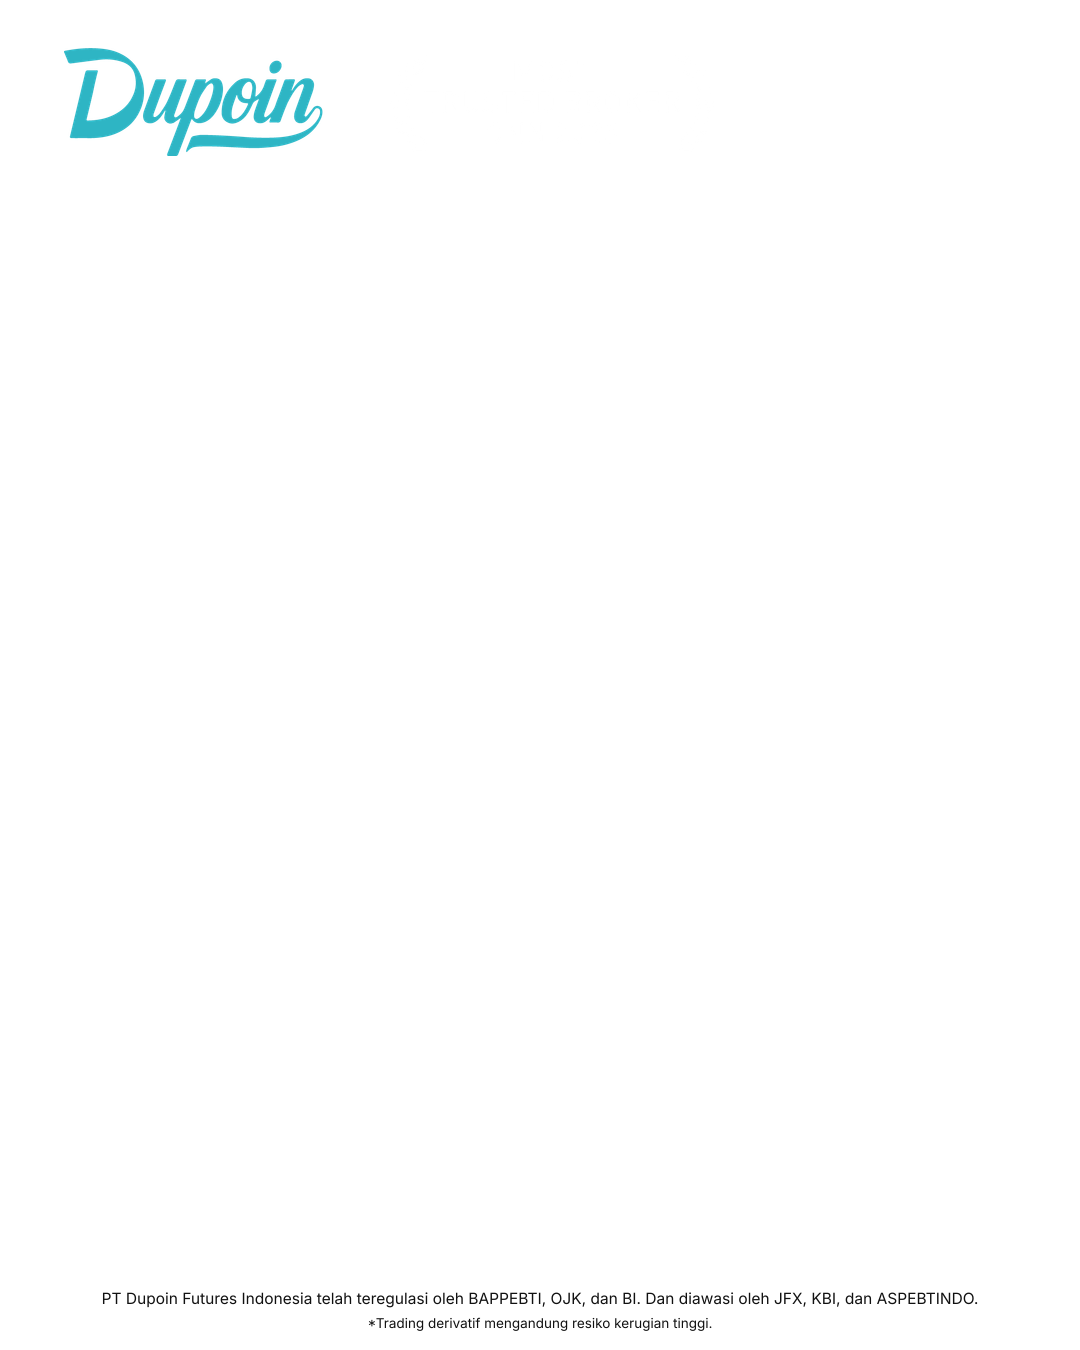
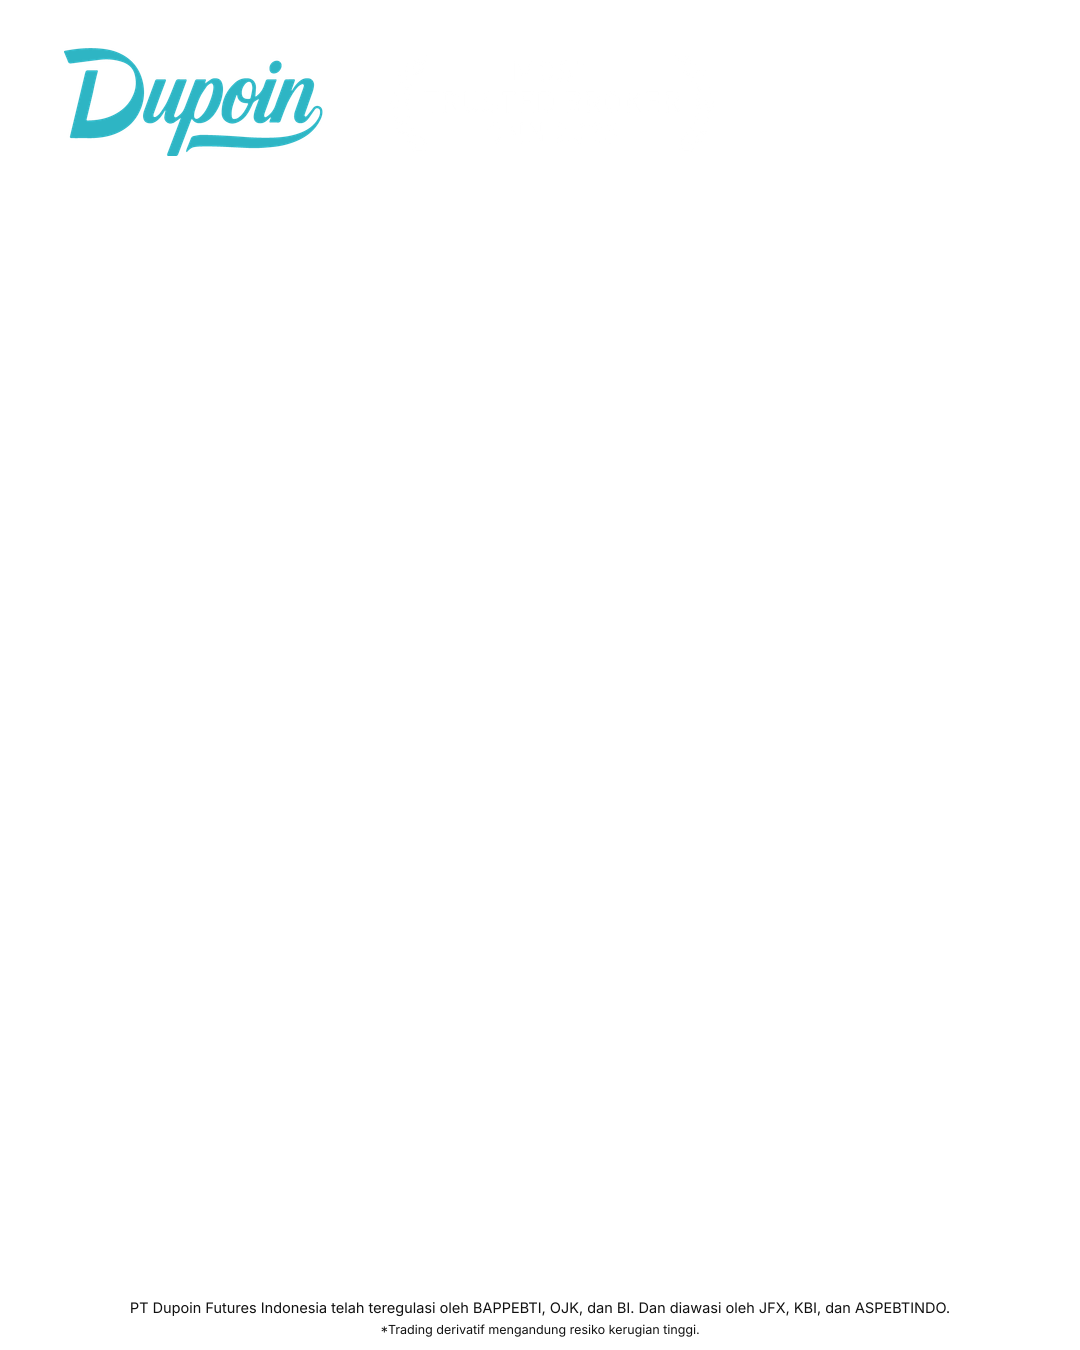
Lock the Dupoin feed shell into Social Post prompts and chrome.
Navy field, cyan key words, a filled Dupoin Blue pill, and a thinner white footer now follow the public grid, while carousel briefs can still use the swipe label in that same pill.

Changed region(s): [[0.1222, 0.9333, 0.8861, 0.9956]]

diff --git a/src/lib/dupoin-image-prompt.ts b/src/lib/dupoin-image-prompt.ts
@@ -23,6 +23,18 @@ export const DUPOIN_BLUE_RGB = '46,181,196';
 export const DUPOIN_LOGO_REQUIRED_LINE =
   'Draw no logo, no wordmark, no CNN badge, no laurel, no regulatory footer, and no "Dupoin" lettering'
 
+/**
+ * Style lock baked onto every Social Post image prompt.
+ * Wording is stable so re-applying the lock does not stack copies.
+ * Carousel/story posts use Bayu's swipe label; other briefs keep their own CTA inside the same filled pill.
+ */
+export const DUPOIN_IG_STYLE_LOCK =
+  `Dupoin Instagram shell: dark navy or black field with atmospheric glow in Dupoin Blue ${DUPOIN_BLUE_HEX}. `
+  + 'Large bold sans headlines, with key promo words in Dupoin Blue and supporting copy in white; alignment may follow the scene. '
+  + 'CTA is one filled Dupoin Blue pill with white lettering, placed just above the footer band. '
+  + 'When the brief is a carousel or story, the pill reads "Swipe left →"; otherwise use the brief\'s own short CTA inside that same filled pill. '
+  + 'Subject may be a person, a physical award, or a laptop with charts.'
+
 /** @deprecated Use DUPOIN_LOGO_REQUIRED_LINE — image prompts must include the official mark. */
 export const DUPOIN_LOGO_IN_PROMPT_LINE = DUPOIN_LOGO_REQUIRED_LINE;
 
@@ -49,37 +61,40 @@ DILARANG KERAS — bikin desain terlihat murah dan tidak menyatu:
 - Kalau teks kurang terbaca, JAWABANNYA adalah mengatur ulang cahaya dan komposisi adegan — bukan menambal dengan lapisan
 
 WARNA:
-- Dupoin Blue ${DUPOIN_BLUE_HEX} hadir sebagai cahaya nyata di dalam adegan: pantulan layar, rim light di tepi subjek, garis UI chart, aksen tombol CTA
-- Sisanya biarkan warna alami adegan — kulit, kayu, logam, kaca, kain
-- Satu warna dominan, satu aksen. Jangan lebih
+- Field dominan navy atau hitam. Dupoin Blue ${DUPOIN_BLUE_HEX} hadir sebagai cahaya nyata di dalam adegan: glow atmosfer, spotlight, rim light, pantulan layar, garis chart
+- Kata promo kunci di headline memakai Dupoin Blue yang sama. Copy pendukung putih
+- Pill CTA terisi Dupoin Blue dengan huruf putih. Bukan outline putih
+- Satu warna dominan (navy/hitam), satu aksen. Jangan lebih
 
 CAHAYA:
 - Satu arah cahaya utama yang jelas + fill lembut
-- Default feed Instagram: spotlight cyan dari atas, atau rim light Dupoin Blue di tepi subjek. Sumber lain (layar, lampu studio) boleh selama adegan tetap gelap dan moody
+- Default feed Instagram: spotlight atau glow cyan di atas field navy/hitam, atau rim light Dupoin Blue di tepi subjek, award, atau laptop
 - Bayangan lembut, highlight terkendali. Hindari pencahayaan datar dan kantor terang generik
 
 COPY DI GAMBAR:
 - Headline ≤6 kata, subheadline ≤10, CTA ≤4 — tulis persis dalam tanda kutip
-- Headline utama: sans tebal berwarna Dupoin Blue ${DUPOIN_BLUE_HEX}. Baris kedua: sans putih
-- CTA adalah pill outline putih, pendek, duduk tepat di atas pita footer
+- Headline besar, sans tebal. Kata promo kunci berwarna Dupoin Blue ${DUPOIN_BLUE_HEX}; copy pendukung putih. Alignment boleh kiri atau di tengah-bawah, mengikuti adegan
+- CTA adalah satu pill terisi Dupoin Blue, huruf putih, pendek, duduk tepat di atas pita footer
+- Kalau brief-nya carousel atau story, teks pill "Swipe left →". Selain itu pakai CTA dari brief di dalam pill yang sama
 - Maksimal 2 jenis huruf: display tebal + sans bersih
-- Tempatkan pada area tengah yang secara alami gelap: dinding, langit, area out-of-focus
+- Tempatkan pada area tengah yang secara alami gelap
 - Semua teks di zona tengah, minimal 80px dari tepi kiri dan kanan, di luar pita header dan footer
 
 SUBJEK — konkret, bukan abstrak:
-- Trader Indonesia usia 25-45 dengan ekspresi dan postur spesifik
-- Detail nyata: tekstur kemeja, cangkir kopi, layar chart, tepi meja kayu, tangan di mouse
+- Pilih yang paling konkret untuk brief: orang, trofi atau award fisik, atau laptop dengan chart
+- Kalau orang: Trader Indonesia usia 25-45 dengan ekspresi dan postur spesifik
+- Detail nyata: tekstur kemeja, layar chart, tepi laptop, logam award, tangan di mouse
 - JANGAN tulis "suasana profesional" atau "nuansa modern" — itu tidak bisa digambar
 
 CHROME — JANGAN DIGAMBAR:
-- Wordmark Dupoin, badge CNN 2025, dan footer regulasi putih ditempel otomatis dari aset setelah gambar jadi
+- Wordmark Dupoin di kiri atas, badge CNN 2025 di sampingnya, dan footer regulasi putih tipis ditempel otomatis dari aset setelah gambar jadi
 - Jangan gambar logo, wordmark, monogram, laurel, badge, atau footer regulasi; jangan tulis kata "Dupoin" di dalam art
-- Pita atas: kosong dari teks, wajah, dan logo. Background dan tekstur boleh menyambung di belakang lockup
-- Pita bawah: kosong. CTA pill duduk tepat di atasnya, bukan di dalamnya
-- Gaya feed Instagram Dupoin: background gelap/moody, Dupoin Blue sebagai spotlight atau rim light, bukan kantor terang generik
+- Pita atas: kosong dari teks, wajah, dan logo. Background navy/hitam dan glow boleh menyambung di belakang lockup
+- Pita bawah: kosong. Pill CTA duduk tepat di atasnya, bukan di dalamnya
+- Chrome ini menempel di setiap rasio. Yang berubah hanya subjek, alignment headline, imbangan warna kata, teks CTA, dan imagery
 
 FORMAT:
-- Kunci ukuran/rasio dari brief. Default social still 1080x1350 potret atau 1080x1080 persegi bila tidak disebut
+- Kunci ukuran/rasio dari brief. Feed publik sering 1080x1080 persegi; template chrome Bayu 1080x1350 potret. Jangan mengganti rasio yang sudah dikunci
 
 URUTAN MENULIS PROMPT:
 1. Format + jenis creative
@@ -93,11 +108,11 @@ URUTAN MENULIS PROMPT:
 
 CONTOH — tiru pendekatannya, jangan salin isinya:
 "Editorial photograph for an Indonesian financial brand, 1080x1350 portrait, Dupoin Instagram still.
-A trader in his early thirties sits in a dim studio, turned three-quarters toward camera, one hand resting on a phone that shows a trading chart. The wall behind him is a dark textured grid and falls gently out of focus. A single cyan spotlight drops from above, catching the rim of his shoulder and the edge of the phone in Dupoin Blue ${DUPOIN_BLUE_HEX}. The rest of the room stays deep and quiet.
-Headline 'JAGA MODALMU' is set in heavy Dupoin Blue sans in the lower middle, where the background is already dark.
-Subheadline 'Risiko duluan, baru entry' sits directly beneath in white.
-A white outlined pill reads 'Swipe left →' just above the empty bottom band.
-The top band is only the continuing dark wall — no logo, no badge, no type. The bottom band is empty background.
+A trader in his early thirties sits against a dark navy field, turned three-quarters toward camera, one hand resting on a laptop that shows a trading chart. The space behind him falls gently out of focus. A cyan atmospheric glow drops from above, catching the rim of his shoulder and the edge of the laptop in Dupoin Blue ${DUPOIN_BLUE_HEX}. The rest of the room stays black and quiet.
+Headline 'JAGA MODALMU' is set in heavy Dupoin Blue sans, with the supporting line 'Rencana dulu' in white, on the dark field where the surface is already quiet.
+Subheadline 'Baru kemudian entry' sits beneath in white.
+A filled Dupoin Blue pill with white lettering reads 'Pelajari' just above the empty bottom band. A carousel or story uses that same pill with the words 'Swipe left →'.
+The top band is only the continuing navy wall — no logo, no badge, no type. The bottom band is empty background.
 Shot on 50mm at f/2, shallow depth of field, moody contrast, fine grain, 8K.
 No overlay, no panel or box behind the text, no gradient layer, no opacity effects, no logo or wordmark, no CNN badge, no laurel, no regulatory footer, no 'Dupoin' lettering in the art, no hashtags, no stock-photo look."
 
@@ -113,6 +128,17 @@ export interface SocialPostImagePromptInput {
 }
 
 const CHROME_LOCK_RE = /\n\nLeave the top \d+% of the frame empty of type, faces, and logos \(background and texture may continue\) for the composited Dupoin header lockup, and the bottom \d+% empty for the composited white regulatory footer\. Draw no logo, no wordmark, no CNN badge, no laurel, no regulatory footer, and no "Dupoin" lettering anywhere in the image\. Primary accent Dupoin Blue #2EB5C4 as real light inside the scene\./g;
+
+function escapeRegExp(value: string): string {
+  return value.replace(/[.*+?^${}()|[\]\\]/g, '\\$&');
+}
+
+const STYLE_LOCK_RE = new RegExp(`\\n\\n${escapeRegExp(DUPOIN_IG_STYLE_LOCK)}`, 'g');
+
+/** Drop a previously baked Instagram style lock so re-applying it cannot stack. */
+export function stripDupoinStyleLock(prompt: string): string {
+  return String(prompt || '').replace(STYLE_LOCK_RE, '');
+}
 
 /** Drop a previously baked chrome reservation so a new aspect ratio can replace the percentages. */
 export function stripDupoinChromeLock(prompt: string): string {
@@ -200,11 +226,16 @@ export function applyDupoinImagePromptLocks(
   prompt: string,
   aspectRatio: ImageAspectRatio = DEFAULT_IMAGE_ASPECT_RATIO,
 ): string {
-  const cleaned = stripDupoinChromeLock(stripImageAspectPrompt(stripFlatOverlayLanguage(prompt))).trim();
+  const cleaned = stripDupoinStyleLock(
+    stripDupoinChromeLock(stripImageAspectPrompt(stripFlatOverlayLanguage(prompt))),
+  ).trim();
   const guarded = cleaned.includes(SCENE_INTEGRITY_NEGATIVES)
     ? cleaned
     : `${cleaned}\n\n${SCENE_INTEGRITY_NEGATIVES}`.trim();
-  return withImageAspectPrompt(ensureOfficialDupoinLogo(guarded, aspectRatio), aspectRatio);
+  const withStyle = guarded.includes(DUPOIN_IG_STYLE_LOCK)
+    ? guarded
+    : `${guarded}\n\n${DUPOIN_IG_STYLE_LOCK}`.trim();
+  return withImageAspectPrompt(ensureOfficialDupoinLogo(withStyle, aspectRatio), aspectRatio);
 }
 
 /** User message that drives Social Post image-prompt generation from a selected caption. */
@@ -222,11 +253,11 @@ Selected caption: ${input.caption}
 
 Tulis satu paragraf mengalir yang mendeskripsikan satu adegan utuh — bukan daftar berpoin.
 
-Format: kunci ${spec.size} ${spec.orientation} (${aspectRatio}). ${spec.promptSuffix}
-Adegan: subjek konkret dengan kedalaman nyata, background gelap/moody, satu sumber cahaya cyan (spotlight atau rim light), dan permukaan gelap tempat teks bisa duduk secara alami di zona tengah.
-Copy: Exact headline (≤6 kata) dalam Dupoin Blue sebagai sans tebal, Subheadline (≤10) putih, CTA (≤4) di dalam pill outline putih tepat di atas pita bawah. Semua dalam safe zone 80px dari tepi kiri dan kanan.
-Warna: Dupoin Blue ${DUPOIN_BLUE_HEX} muncul sebagai cahaya nyata di dalam adegan — spotlight, rim light, garis chart — dan sebagai warna headline. Bukan sebagai lapisan.
-Chrome: JANGAN digambar. Wordmark Dupoin, badge CNN 2025, dan footer regulasi putih ditempel otomatis setelah gambar jadi. Sisakan pita atas kosong dari teks, wajah, dan logo (background boleh menyambung). Sisakan pita bawah kosong.
+Format: kunci ${spec.size} ${spec.orientation} (${aspectRatio}). ${spec.promptSuffix} Feed publik sering persegi 1080x1080; template chrome 1080x1350 potret. Jangan mengganti rasio ini. Chrome tetap menempel.
+Adegan: subjek konkret dengan kedalaman nyata di field navy/hitam, glow atmosfer Dupoin Blue, dan permukaan gelap tempat teks bisa duduk di zona tengah. Subjek boleh orang, award fisik, atau laptop dengan chart.
+Copy: Exact headline (≤6 kata) sans tebal — kata promo kunci dalam Dupoin Blue, copy pendukung putih. Subheadline (≤10) putih. CTA (≤4) di dalam pill terisi Dupoin Blue dengan huruf putih, tepat di atas pita bawah. Kalau brief carousel atau story, teks pill "Swipe left →"; selain itu pakai CTA brief di pill yang sama. Semua dalam safe zone 80px dari tepi kiri dan kanan.
+Warna: background navy/hitam. Dupoin Blue ${DUPOIN_BLUE_HEX} muncul sebagai glow atmosfer, kata promo kunci, dan isi pill. Bukan sebagai lapisan.
+Chrome: JANGAN digambar. Wordmark Dupoin kiri atas, badge CNN 2025, dan footer regulasi putih tipis ditempel otomatis setelah gambar jadi. Sisakan pita atas kosong dari teks, wajah, dan logo (background boleh menyambung). Sisakan pita bawah kosong.
 
 DILARANG: overlay, panel, box, scrim, banner, atau bar di belakang teks; nilai opacity/transparansi; gradient sebagai lapisan di atas gambar; hex code untuk background. Kalau teks kurang terbaca, atur ulang cahaya dan komposisi — jangan menambal dengan lapisan.
 Negatif lain: no hashtags, no long captions, no fake claims/numbers not in the brief, no wrong teal, no logo, no wordmark, no CNN badge, no laurel, no regulatory footer, no "Dupoin" lettering drawn into the art, no generic stock look.`;

diff --git a/tests/social-ad-creative-contract.test.ts b/tests/social-ad-creative-contract.test.ts
@@ -4,6 +4,7 @@ import { readFileSync } from 'node:fs';
 import path from 'node:path';
 import {
   DUPOIN_BLUE_HEX,
+  DUPOIN_IG_STYLE_LOCK,
   DUPOIN_LOGO_REQUIRED_LINE,
   IMAGE_PROMPT_SYSTEM,
   applyDupoinImagePromptLocks,
@@ -41,7 +42,12 @@ test('image-prompt system encodes Dupoin Brand Guidelines 2026 locks', () => {
     assert.match(prompt, /Jangan gambar logo|Jangan menggambar logo/i);
     assert.match(prompt, /badge CNN/i);
     assert.match(prompt, /footer regulasi/i);
-    assert.match(prompt, /pill outline putih/i);
+    assert.match(prompt, /pill terisi Dupoin Blue/i);
+    assert.match(prompt, /Swipe left/);
+    assert.match(prompt, /carousel atau story/i);
+    assert.match(prompt, /navy atau hitam/i);
+    assert.match(prompt, /laptop dengan chart/i);
+    assert.match(prompt, /1080x1080 persegi/);
     assert.doesNotMatch(prompt, /kanan-bawah/i);
     assert.doesNotMatch(prompt, /telah teregulasi/);
     assert.doesNotMatch(prompt, /MOST TRUSTED BROKER/);
@@ -82,7 +88,13 @@ test('sample image-prompt builder requires official logo, brand hex, and dropdow
   assert.match(sample, /Exact headline/);
   assert.match(sample, /Subheadline/);
   assert.match(sample, /CTA/);
-  assert.match(sample, /pill outline putih/i);
+  assert.match(sample, /pill terisi Dupoin Blue/i);
+  assert.match(sample, /Swipe left/);
+  assert.match(sample, /carousel atau story/i);
+  assert.match(sample, /navy\/hitam/i);
+  assert.match(sample, /laptop dengan chart/i);
+  assert.match(sample, /1080x1080/);
+  assert.match(sample, /1080x1350/);
   assert.match(sample, /ditempel otomatis/i);
   assert.match(sample, /JANGAN digambar/i);
   assert.match(sample, /DILARANG/);
@@ -115,6 +127,11 @@ test('applyDupoinImagePromptLocks reserves chrome bands and locks the selected s
   assert.match(locked, /#2EB5C4/);
   assert.equal(locked.includes(DUPOIN_LOGO_REQUIRED_LINE), true);
   assert.match(locked, /No overlay/i, 'scene-integrity negatives ride along with every prompt');
+  assert.equal(locked.includes(DUPOIN_IG_STYLE_LOCK), true, 'Instagram style lock rides along with every prompt');
+  assert.equal(locked.split(DUPOIN_IG_STYLE_LOCK).length, 2, 'style lock is applied once');
+  assert.match(locked, /filled Dupoin Blue pill/);
+  assert.match(locked, /Swipe left →/);
+  assert.match(locked, /brief's own short CTA/);
   assert.doesNotMatch(locked, /lower-right/);
   assert.doesNotMatch(locked, /graphic mark \+ wordmark/);
   assert.doesNotMatch(locked, /telah teregulasi/);

diff --git a/tests/dupoin-ig-chrome.test.ts b/tests/dupoin-ig-chrome.test.ts
@@ -174,6 +174,37 @@ test('compositing pins chrome to the edges and leaves the middle scene alone', a
   assert.deepEqual(justAboveFooter.slice(0, 3), [180, 20, 20], 'scene just above the footer must remain');
 });
 
+test('compositing scales the same chrome onto a square feed canvas', async () => {
+  const width = 1024;
+  const height = 1024;
+  const canvas = await sharp({
+    create: { width, height, channels: 4, background: { r: 8, g: 16, b: 32, alpha: 1 } },
+  }).png().toBuffer();
+  const stamped = await compositeDupoinInstagramChrome(canvas);
+  const meta = await sharp(stamped).metadata();
+  assert.equal(meta.width, width, 'square dropdown size is preserved');
+  assert.equal(meta.height, height);
+
+  const { data, info } = await raw(stamped);
+  const at = (x: number, y: number) => {
+    const i = (y * info.width + x) * 4;
+    return [data[i], data[i + 1], data[i + 2]];
+  };
+  const place = chromePlacement(width, height);
+  assert.ok(place.headerHeight + place.footerHeight < height);
+  assert.deepEqual(at(Math.round(width / 2), Math.round(height / 2)), [8, 16, 32], 'square middle stays the generated scene');
+  const bottom = at(12, height - 3);
+  assert.ok(bottom[0] > 245 && bottom[1] > 245 && bottom[2] > 245, 'square canvas still gets the white footer');
+  let topTeal = 0;
+  for (let y = 0; y < place.headerHeight; y += 2) {
+    for (let x = 0; x < 700; x += 2) {
+      const [r, g, b] = at(x, y);
+      if (isTeal(r, g, b)) topTeal += 1;
+    }
+  }
+  assert.ok(topTeal > 150, 'square canvas still gets the upper-left lockup');
+});
+
 test('compositing scales the same chrome onto a landscape canvas', async () => {
   const width = 1536;
   const height = 1024;

diff --git a/scripts/build-dupoin-ig-chrome.ts b/scripts/build-dupoin-ig-chrome.ts
@@ -27,8 +27,8 @@ function footerSvg(): Buffer {
   return Buffer.from(`<?xml version="1.0" encoding="UTF-8"?>
 <svg width="${width}" height="${height}" viewBox="0 0 ${width} ${height}" xmlns="http://www.w3.org/2000/svg">
   <rect width="${width}" height="${height}" fill="#ffffff"/>
-  <text x="${width / 2}" y="34" text-anchor="middle" font-family="Inter" font-size="15.5" fill="#111111">${DUPOIN_IG_FOOTER_LINE_1}</text>
-  <text x="${width / 2}" y="58" text-anchor="middle" font-family="Inter" font-size="13.5" fill="#111111">${DUPOIN_IG_FOOTER_LINE_2}</text>
+  <text x="${width / 2}" y="27" text-anchor="middle" font-family="Inter" font-size="14.5" fill="#111111">${DUPOIN_IG_FOOTER_LINE_1}</text>
+  <text x="${width / 2}" y="48" text-anchor="middle" font-family="Inter" font-size="12.5" fill="#111111">${DUPOIN_IG_FOOTER_LINE_2}</text>
 </svg>`);
 }
 

diff --git a/src/lib/dupoin-ig-chrome.ts b/src/lib/dupoin-ig-chrome.ts
@@ -36,8 +36,11 @@ export const DUPOIN_IG_LOCKUP_HEIGHT = 108;
  */
 export const DUPOIN_IG_HEADER_BAND_PX = 172;
 
-/** Opaque white regulatory footer, pinned to the bottom of the native chrome. */
-export const DUPOIN_IG_FOOTER_BAND_PX = 80;
+/**
+ * Thin opaque white regulatory footer, pinned to the bottom of the native chrome.
+ * Two legal lines, tighter than a banner, matching the feed's disclaimer strip.
+ */
+export const DUPOIN_IG_FOOTER_BAND_PX = 64;
 
 /** Exact disclaimer on Bayu's template. Spelling "resiko" is intentional. */
 export const DUPOIN_IG_FOOTER_LINE_1 =
